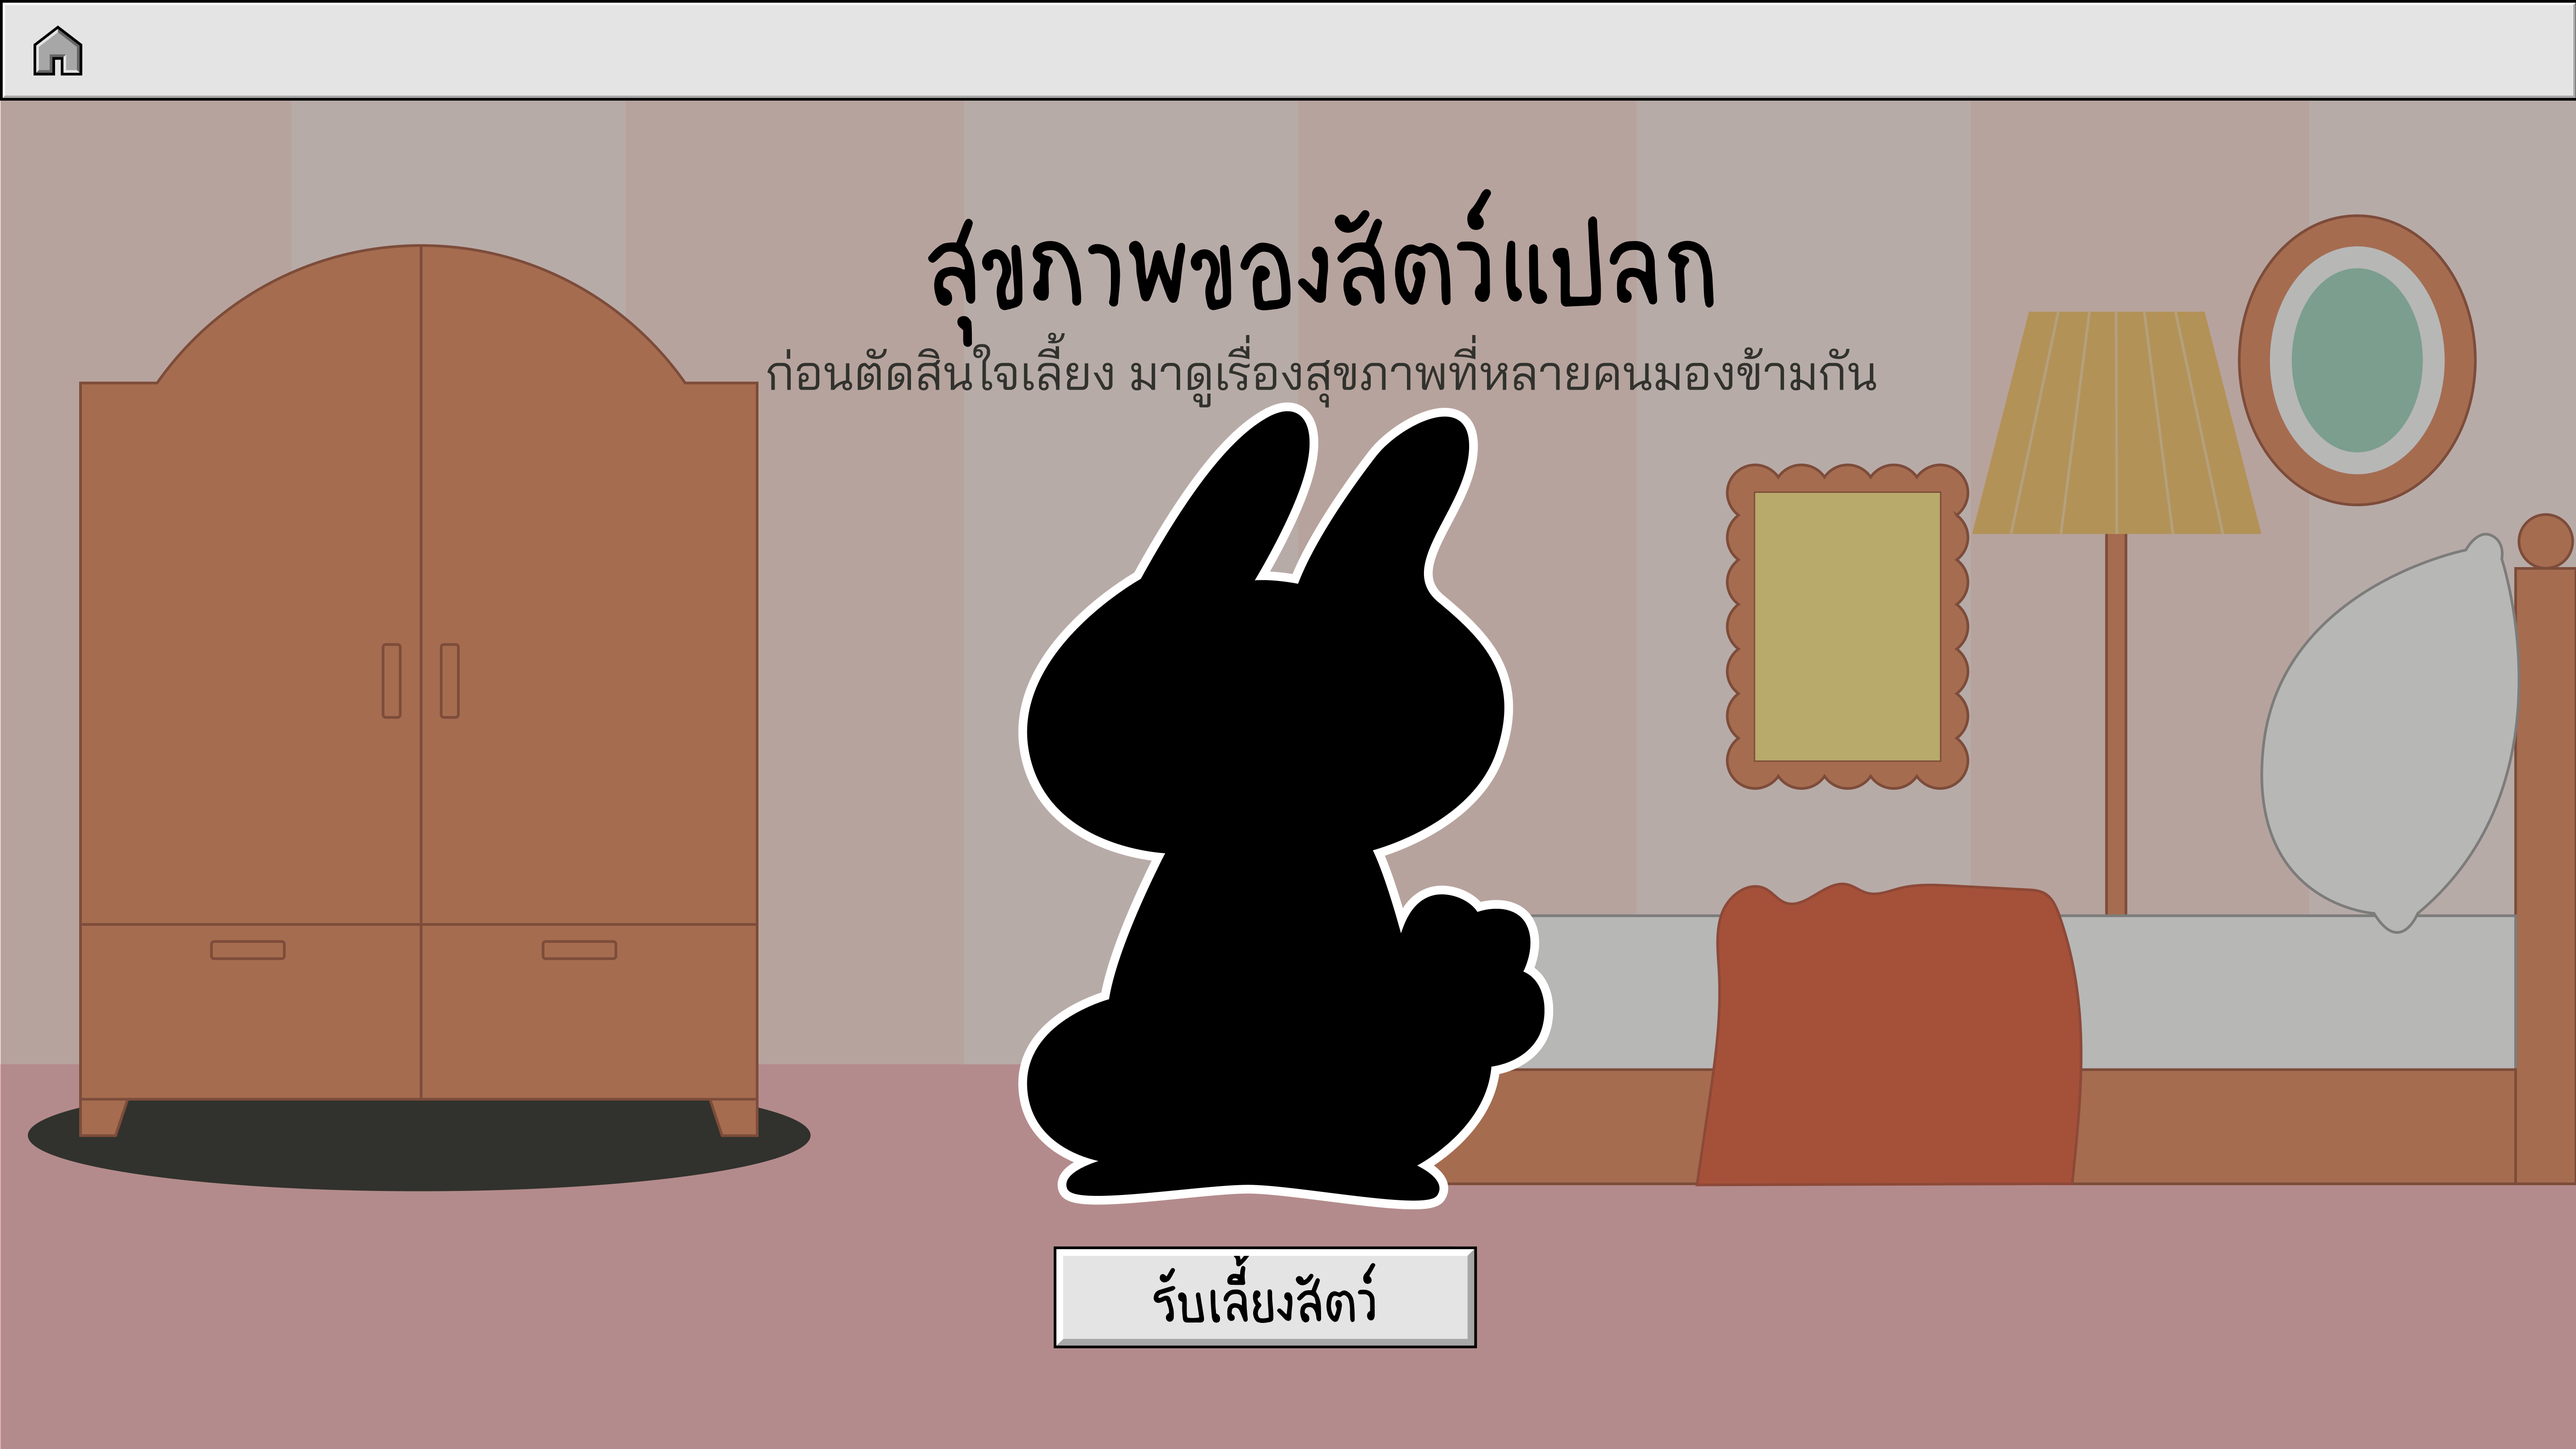
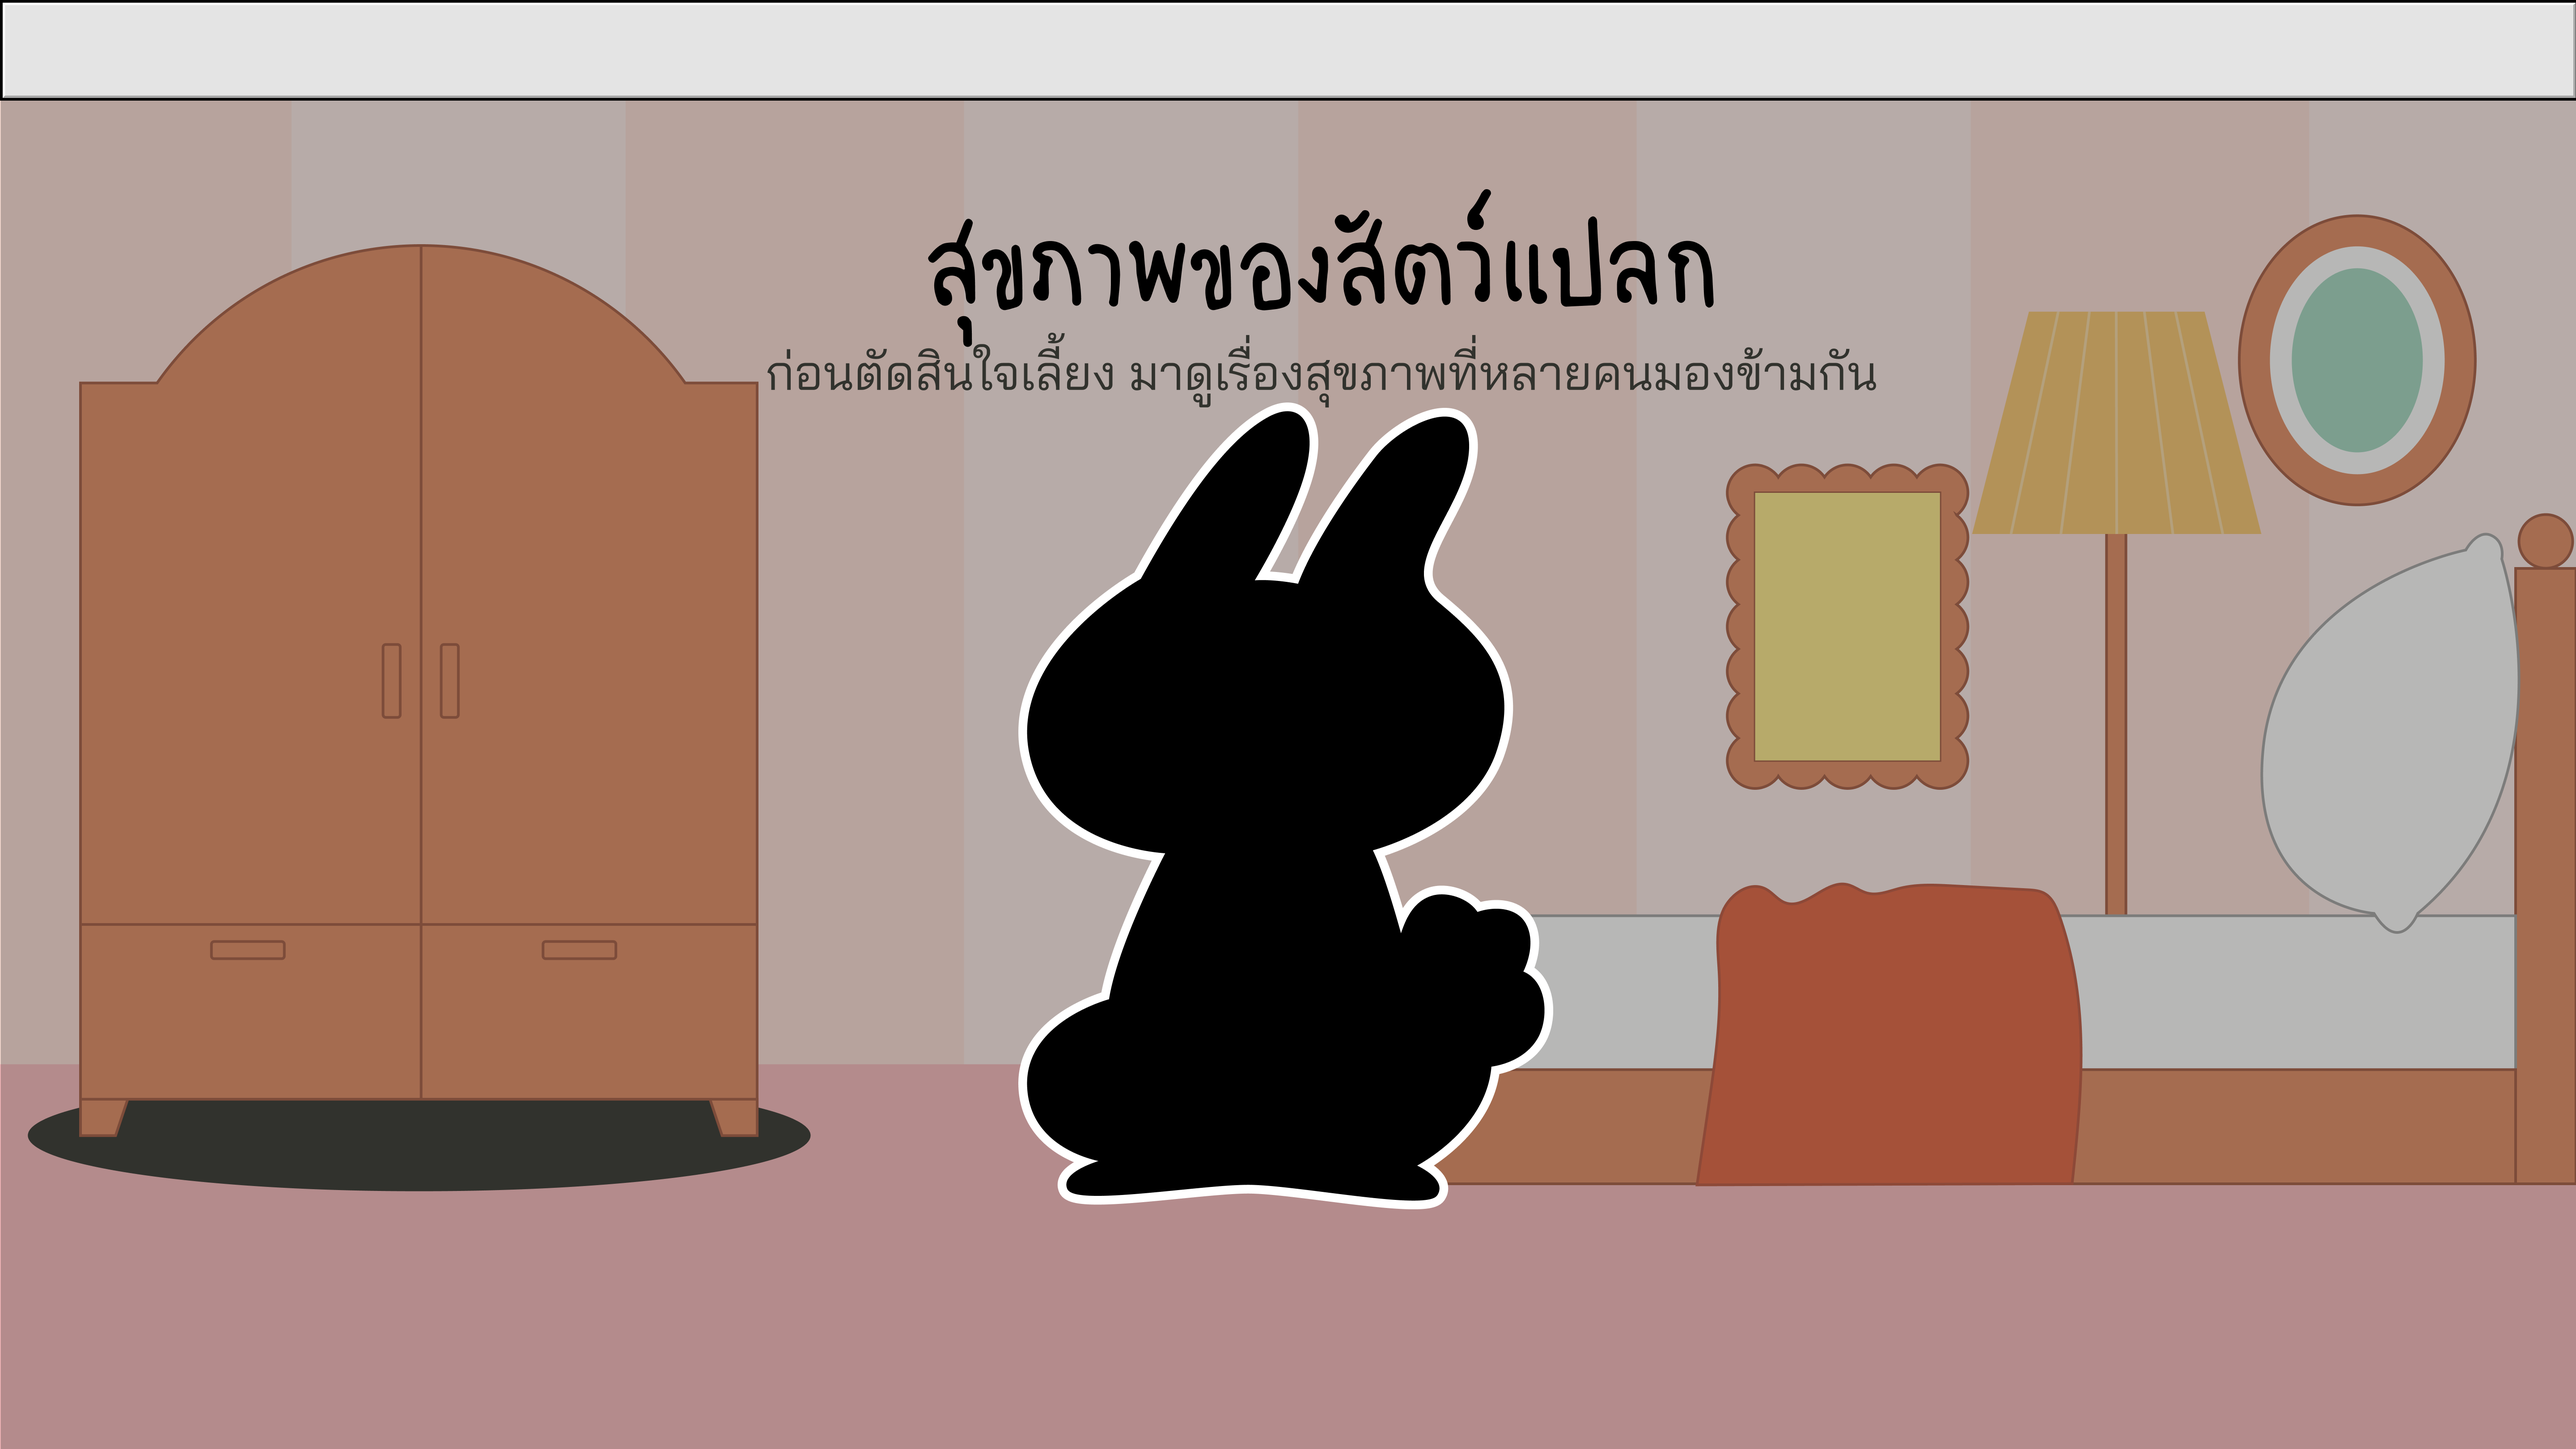
add adopt rabbit

Changed region(s): [[0.4062, 0.8417, 0.5938, 0.9352], [0.0, 0.0, 0.0312, 0.0623]]

diff --git a/src/pages/rabbitRoom/RabbitRoom.tsx b/src/pages/rabbitRoom/RabbitRoom.tsx
@@ -1,30 +1,137 @@
-import { useNavigate } from "react-router-dom";
-import { motion } from "framer-motion";
+import { useState } from "react";
+import { useNavigate, Outlet } from "react-router-dom";
+import { motion, AnimatePresence } from "framer-motion";
 import "./RabbitRoom.css";
 
-import bgImage from "../../assets/rabbitRoom/rabbit-background.png";
+import bgAdoptPage from "../../assets/rabbitRoom/rabbit-background.png";
+import bgMain from "../../assets/rabbitRoom/bg-main.png";
+import rabbitMain from "../../assets/rabbitRoom/rabbit.png";
+import homeIcon from "../../assets/components/home-icon.png";
+import adoptBtnImg from "../../assets/components/adopt-button.png";
+import cupboardClose from "../../assets/rabbitRoom/cupboard-close.png";
+import cupboardOpen from "../../assets/rabbitRoom/cupboard-open.png";
+import topicMain from "../../assets/rabbitRoom/topic-main.png";
 
 const RabbitRoom = () => {
   const navigate = useNavigate();
+  const [isAdopted, setIsAdopted] = useState(false);
+  const [isHovered, setIsHovered] = useState(false);
+
+  const handleAdopt = () => {
+    setIsAdopted(true);
+  };
+
+  const handleCarrotClick = (e: React.MouseEvent) => {
+    e.stopPropagation();
+    console.log("Carrot Clicked!");
+    // ใส่ Logic เพิ่มเติมที่นี่ เช่น navigate หรือเพิ่มคะแนน
+  };
 
   return (
     <motion.div
-      className="room-overlay"
+      className="rabbit-room-overlay"
       initial={{ opacity: 0 }}
       animate={{ opacity: 1 }}
-      transition={{ duration: 0.4, ease: "easeOut" }}
     >
-      <img src={bgImage} className="room-bg" alt="Rabbit Room" />
+      <div className="rabbit-responsive-container">
+        {/* Home Button */}
+        <motion.button
+          className="rabbit-home-btn"
+          onClick={() => navigate("/lobby")}
+          whileHover={{ scale: 1.05 }}
+          whileTap={{ scale: 1 }}
+        >
+          <img src={homeIcon} alt="Home" />
+        </motion.button>
 
-      <div className="room-content">
-        {/* ปรับ Link ให้กลับมาที่ /lobby */}
-        <button className="back-btn" onClick={() => navigate("/lobby")}>
-          ← กลับไปหน้า Lobby
-        </button>
+        {/* 1. Main Room Layer */}
+        <AnimatePresence>
+          {isAdopted && (
+            <motion.div
+              className="rabbit-bg-layer"
+              initial={{ opacity: 0 }}
+              animate={{ opacity: 1 }}
+              transition={{ duration: 0.6 }}
+            >
+              <img src={bgMain} className="rabbit-img-full" alt="bg-main" />
 
-        <div className="room-info">
-          <h1>ห้องของ: กระต่าย</h1>
-        </div>
+              {/* Character */}
+              <motion.div
+                className="rabbit-char-container"
+                initial={{ opacity: 0, scale: 0.5 }}
+                animate={{ opacity: 1, scale: 1 }}
+                transition={{ type: "spring", stiffness: 400, damping: 15 }}
+              >
+                <img
+                  src={rabbitMain}
+                  className="rabbit-char-img"
+                  alt="Rabbit"
+                />
+              </motion.div>
+
+              {/* Cupboard */}
+              <div
+                className="rabbit-cupboard-container"
+                onMouseEnter={() => setIsHovered(true)}
+                onMouseLeave={() => setIsHovered(false)}
+              >
+                <img
+                  src={isHovered ? cupboardOpen : cupboardClose}
+                  className="rabbit-cupboard-img"
+                  alt="Cupboard"
+                />
+
+                {/* Invisible Carrot Button */}
+                {isHovered && (
+                  <div
+                    className="cupboard-carrot-trigger"
+                    onClick={handleCarrotClick}
+                  />
+                )}
+              </div>
+
+              {/* Topic Layer */}
+              <motion.div
+                className="rabbit-topic-container"
+                initial={{ opacity: 0 }}
+                animate={{ opacity: 1 }}
+              >
+                <img
+                  src={topicMain}
+                  className="rabbit-topic-img"
+                  alt="Topic Health"
+                />
+              </motion.div>
+            </motion.div>
+          )}
+        </AnimatePresence>
+
+        {/* 2. Adopt Overlay */}
+        <AnimatePresence>
+          {!isAdopted && (
+            <motion.div
+              className="rabbit-adopt-overlay"
+              exit={{ opacity: 0 }}
+              transition={{ duration: 0.5 }}
+            >
+              <img
+                src={bgAdoptPage}
+                className="rabbit-img-full"
+                alt="adopt page"
+              />
+              <motion.img
+                src={adoptBtnImg}
+                className="rabbit-adopt-btn-pos"
+                onClick={handleAdopt}
+                whileHover={{ scale: 1.05 }}
+                whileTap={{ scale: 1 }}
+                alt="adopt button"
+              />
+            </motion.div>
+          )}
+        </AnimatePresence>
+
+        <Outlet />
       </div>
     </motion.div>
   );

diff --git a/src/pages/rabbitRoom/RabbitRoom.css b/src/pages/rabbitRoom/RabbitRoom.css
@@ -1,45 +1,116 @@
-.room-overlay {
+.rabbit-room-overlay {
   position: fixed;
-  top: 0;
-  left: 0;
-  width: 100vw;
-  height: 100vh;
-  z-index: 999;
+  inset: 0;
+  z-index: 1000;
+  display: flex;
+  justify-content: center;
+  align-items: flex-start;
   overflow: hidden;
-  background-color: rgba(0, 0, 0, 0.5);
+  background-color: #b48b8d;
 }
 
-.room-bg {
+.rabbit-responsive-container {
+  position: relative;
+  width: 100%;
+  max-width: 1920px;
+  aspect-ratio: 16 / 9;
+  margin: 0 auto;
+  overflow: hidden;
+}
+
+.rabbit-bg-layer,
+.rabbit-adopt-overlay {
+  position: absolute;
+  inset: 0;
   width: 100%;
   height: 100%;
-  object-fit: cover;
-  object-position: top;
+}
+
+.rabbit-img-full {
+  width: 100%;
+  height: 100%;
+  object-fit: fill;
   display: block;
 }
 
-.back-btn {
-    position: absolute;
-    top: 20px;
-    left: 20px;
-    padding: 10px 20px;
-    background-color: rgba(255, 255, 255, 0.8);
-    border: none;
-    border-radius: 8px;
-    cursor: pointer;
-    pointer-events: auto;
-    font-weight: bold;
-    transition: transform 0.2s ease;
+.rabbit-cupboard-container {
+  position: absolute;
+  top: 17%;
+  left: 3.1%;
+  width: 39.5%;
+  z-index: 4;
 }
 
-.back-btn:hover {
-    transform: scale(1.05);
-    background-color: #fff;
+.rabbit-cupboard-img {
+  width: 100%;
+  height: auto;
+  display: block;
+  pointer-events: none;
 }
 
-.room-info {
-    position: absolute;
-    bottom: 10%;
-    width: 100%;
-    text-align: center;
-    color: white;
+.cupboard-carrot-trigger {
+  position: absolute;
+  bottom: 25%;
+  right: 36%;
+  width: 25%;
+  height: 12%;
+  cursor: pointer;
+  z-index: 10;
+}
+
+.rabbit-char-container {
+  position: absolute;
+  bottom: 5.3%;
+  left: 35.5%;
+  transform: translateX(-50%);
+  width: 29%;
+  z-index: 5;
+  pointer-events: none;
+}
+
+.rabbit-char-img {
+  width: 100%;
+  height: auto;
+  display: block;
+}
+
+.rabbit-topic-container {
+  position: absolute;
+  top: 13%;
+  left: 33%;
+  width: 34%;
+  z-index: 6;
+  pointer-events: none;
+}
+
+.rabbit-topic-img {
+  width: 100%;
+  height: auto;
+  display: block;
+}
+
+/* --- UI Components --- */
+.rabbit-home-btn {
+  position: absolute;
+  top: 1.7%;
+  left: 1.3%;
+  width: 2vw;
+  background: none;
+  border: none;
+  cursor: pointer;
+  z-index: 9000;
+}
+
+.rabbit-home-btn img {
+  width: 100%;
+  display: block;
+}
+
+.rabbit-adopt-btn-pos {
+  position: absolute;
+  bottom: 7.1%;
+  left: 40.75%;
+  width: 16.45%;
+  cursor: pointer;
+  z-index: 100;
 }

diff --git a/src/pages/squirrelRoom/SquirrelRoom.tsx b/src/pages/squirrelRoom/SquirrelRoom.tsx
@@ -11,7 +11,7 @@ import squirrelDef from "../../assets/squirrelRoom/squirrel-default.png";
 import squirrelSmi from "../../assets/squirrelRoom/squirrel-smile.png";
 import squirrelAng from "../../assets/squirrelRoom/squirrel-angry.png";
 import weightLifting from "../../assets/squirrelRoom/weightlifting.png";
-import clickIcon from "../../assets/squirrelRoom/click-icon.png";
+import clickIcon from "../../assets/components/click-icon.png";
 import happyOpinion from "../../assets/squirrelRoom/today-happy-opinion.png";
 
 import tailTopic from "../../assets/squirrelRoom/tail-topic-text.png";
